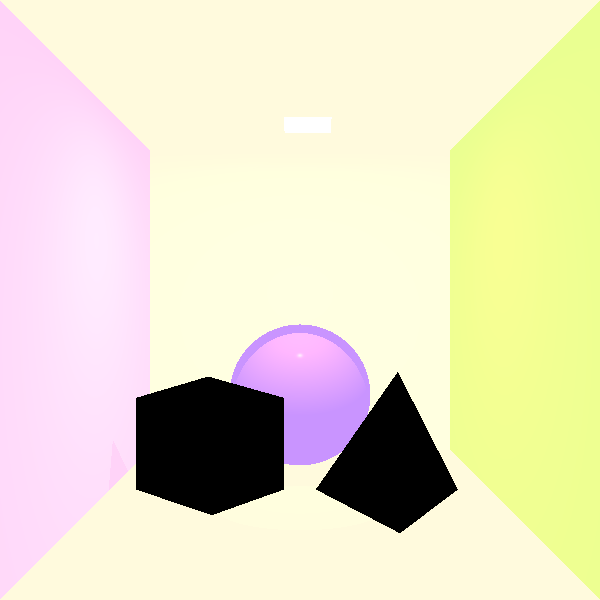
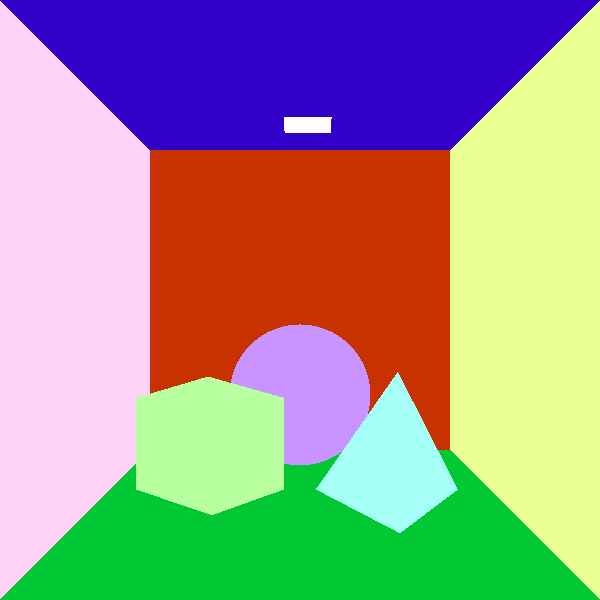
nadaaa

diff --git a/test/renderer/ReflectionRefractionTests.java b/test/renderer/ReflectionRefractionTests.java
@@ -160,7 +160,7 @@ public class ReflectionRefractionTests {
                 .setImageWriter(imageWriter) //
                 .setCamera(camera) //
                 .setRayTracerBase(new BasicRayTracer(scene));
-        render.renderImage(9);
+        render.renderImage(10);
         render.writeToImage();
     }
 
@@ -190,9 +190,6 @@ public class ReflectionRefractionTests {
     }
 
     @Test
-    /**
-     *
-     */
     public void Mp1() {
         Point3D L=new Point3D(-5,-60,50);
         Point3D M=new Point3D(-52,-60,50);
@@ -205,23 +202,24 @@ public class ReflectionRefractionTests {
 
         Camera camera = new Camera(new Point3D(0, 0, 1000), new Vector(0, 0, -1), new Vector(0, 1, 0)) //
                 .setViewPlaneSize(200, 200).setDistance(1000);
-        scene.setAmbientLight(new AmbientLight(new Color(java.awt.Color.BLACK), 4E-4));
+        scene.setAmbientLight(new AmbientLight());
         scene._geometries.add(
                 //behind
                 new Plane(new Point3D(0, 0, 0), new Point3D(50, 50, 0), new Point3D(50, -50, 0))
-                      .setEmission(new Color(255, 250, 221)).setMaterial(new Material().setKs(0).setnShininess(50).setKd(0.8).setkR(0).setkT(0)),
+                      .setEmission(new Color(200, 50, 0)).setMaterial(new Material().setKs(0.3).setnShininess(200).setKd(0.5).setkR(0).setkT(0)),
               //down
                 new Plane(new Point3D(50, -50, 0), new Point3D(100, -50, 0), new Point3D(100, -70, 100))
-                        .setEmission(new Color(255, 250, 221)).setMaterial(new Material().setKs(0).setnShininess(200).setKd(0.1).setkR(0.05).setkT(0)),
+                        .setEmission(new Color(0, 200, 50)).setMaterial(new Material().setKs(0.3).setnShininess(200).setKd(0.5).setkR(0).setkT(0)),
                //up
                 new Plane(new Point3D(50, 50, 0), new Point3D(100, 50, 0), new Point3D(100, 70, 100))
-                        .setEmission(new Color(255, 250, 221)).setMaterial(new Material().setKs(0).setnShininess(100).setKd(0).setkR(0).setkT(0)),
+                        .setEmission(new Color(50, 0, 200)).setMaterial(new Material().setKs(0.3).setnShininess(200).setKd(0.5).setkR(0).setkT(0)),
                 //right
                 new Plane(new Point3D(50, -50, 0), new Point3D(50, -100, 0), new Point3D(70, -100, 100))
-                        .setEmission(new Color(234, 255, 145)).setMaterial(new Material().setKs(0).setnShininess(100).setKd(0.3).setkR(0).setkT(0)),
+                        .setEmission(new Color(200, 200, 0)).setMaterial(new Material().setKs(0).setnShininess(100).setKd(0.3).setkR(0).setkT(0)),
                 //left
                 new Plane(new Point3D(-50, 50, 0), new Point3D(-50, 100, 0), new Point3D(-70, 100, 100))
-                        .setEmission(new Color(255, 211, 248)).setMaterial(new Material().setKs(0).setnShininess(100).setKd(0.8).setkR(0).setkT(0)),
+                        .setEmission(new Color(0, 200, 200)).setMaterial(new Material().setKs(0).setnShininess(100).setKd(0.8).setkR(0).setkT(0)),
+
                //the big sphere
                 new Sphere(new Point3D(0, -31, 20), 23).setEmission(new Color(201, 148, 255))
                         .setMaterial(new Material().setKd(0.8).setkT(0).setkR(0).setKs(1).setnShininess(400)),
@@ -274,11 +272,11 @@ public class ReflectionRefractionTests {
 //                new SpotLight(new Color(255, 164, 48), new Point3D(0, 60, 60), new Vector(0, -1, 0)) //
 //                        .setKl(4E-4).setKq(2E-5));
 
-        scene._lights.add(new SpotLight(new Color(255, 164, 48), new Point3D(0, 64, 70), new Vector(0, -5, 1)).setKl(0.08).setKc(0.08));
-        scene._lights.add(new SpotLight(new Color(255, 164, 48), new Point3D(-5, 64, 70), new Vector(0, -5, 1)).setKl(0.08).setKc(0.08));
+       scene._lights.add(new SpotLight(new Color(255, 0, 0), new Point3D(0, 64, 70), new Vector(0, -5, 1)));
+     //   scene._lights.add(new SpotLight(new Color(255, 164, 48), new Point3D(-5, 64, 70), new Vector(0, -5, 1)).setKl(0.08).setKc(0.08));
        // scene._lights.add(new SpotLight(new Color(255, 164, 48), new Point3D(-5, 68, 90), new Vector(0, -1, 0)).setKl(0.08).setKc(0.08));
-        scene._lights.add(new SpotLight(new Color(255, 164, 48), new Point3D(10, 68, 30), new Vector(0, -5, 1)).setKl(0.08).setKc(0.08));
-       // scene._lights.add(new SpotLight(new Color(255, 164, 48), new Point3D(0, 30, 45),new Vector(-20,-20,45)).setKl(0.08).setKc(0.08));
+        //scene._lights.add(new SpotLight(new Color(255, 164, 48), new Point3D(10, 68, 30), new Vector(-5, 0, 1)).setKl(0.08).setKc(0.08));
+       // scene._lights.add(new SpotLight(new Color(255, 164, 48), new Point3D(5, 10, 0),new Vector(0,-1,0)));
 
         ImageWriter imageWriter = new ImageWriter("Mp1", 600, 600);
         Render render = new Render() //

diff --git a/src/renderer/Render.java b/src/renderer/Render.java
@@ -69,11 +69,12 @@ public class Render {
                     Color colAverage = new Color(0, 0, 0);
                     for (int ii = 0; ii < numberOfSamples; ii++) {
                         for (int jj = 0; jj < numberOfSamples; jj++) {
-                            ray = _camera.constructRayThroughRandomPixel(Nx,Ny,j,i,numberOfSamples,ii,jj);
+                           // ray = _camera.constructRayThroughRandomPixel(Nx,Ny,j,i,numberOfSamples,ii,jj);
+                           ray = _camera.constructRayThroughPixel(Nx*numberOfSamples,Ny*numberOfSamples,j*numberOfSamples+jj,i*numberOfSamples+ii);
                         colAverage=colAverage.add(_rayTracerBase.traceRay(ray));
                         }
                     }
-                    _imageWriter.writePixel(i, j,colAverage.reduce(numberOfSamples*numberOfSamples));
+                    _imageWriter.writePixel(j, i,colAverage.reduce(numberOfSamples*numberOfSamples));
                 }
 
             }
